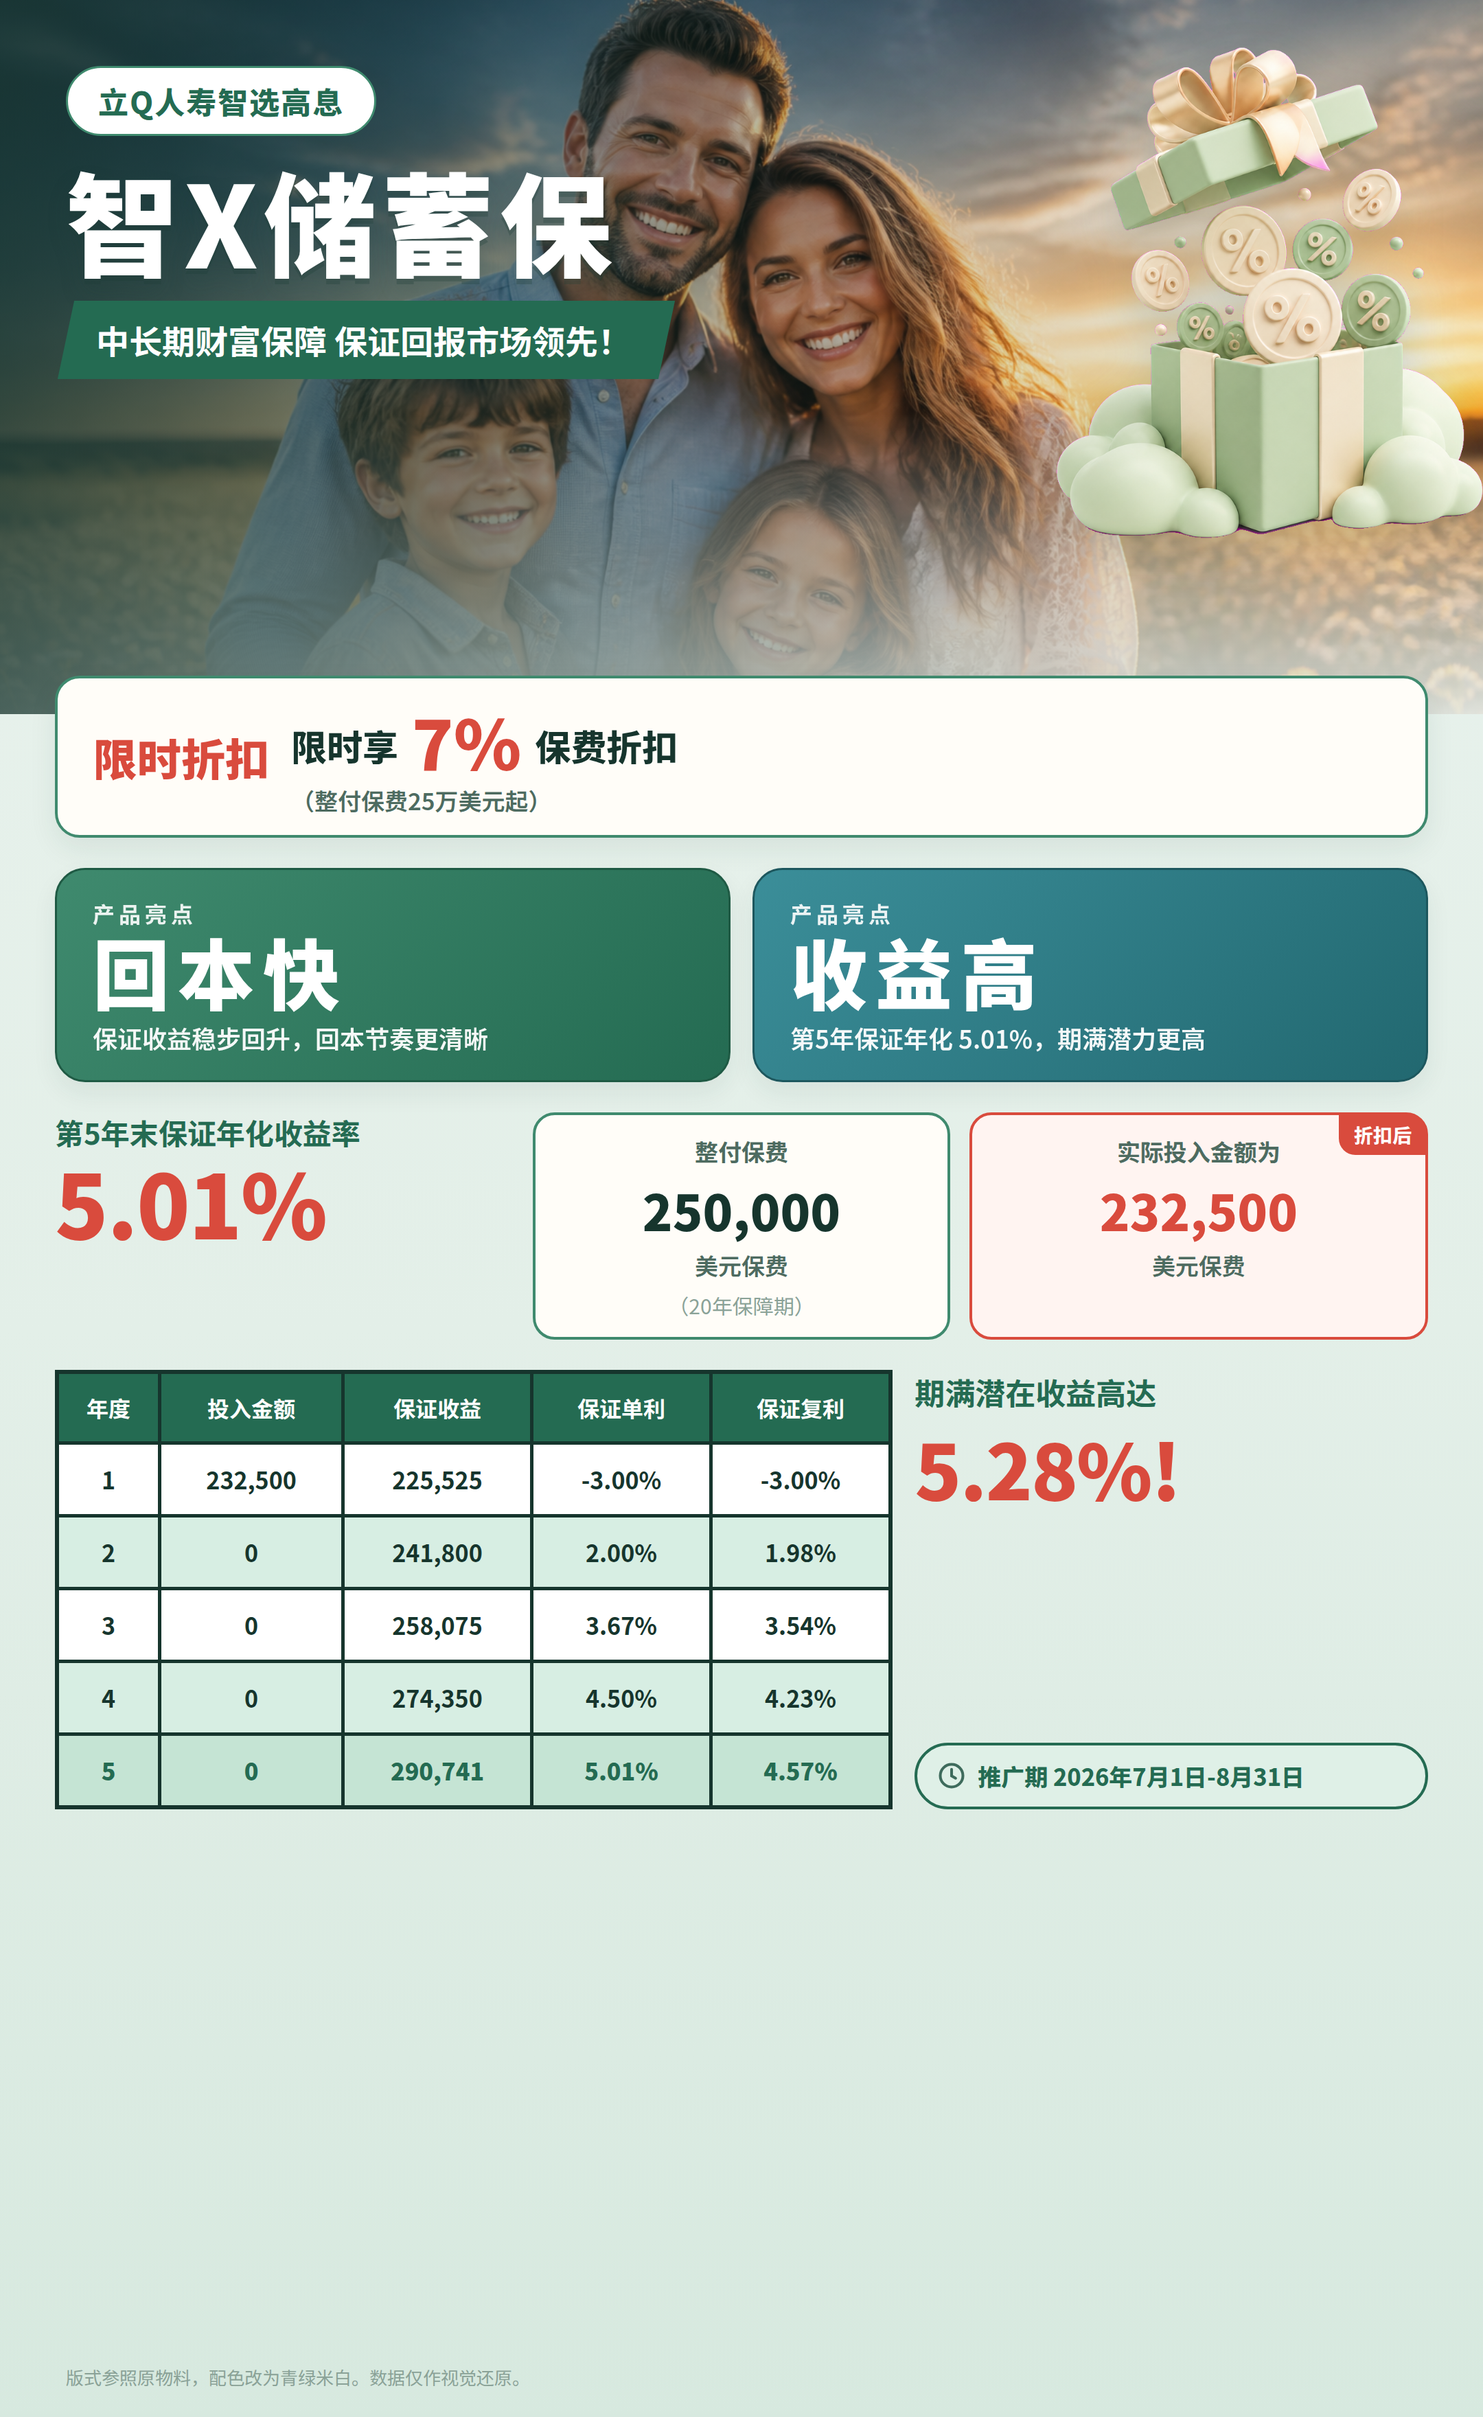
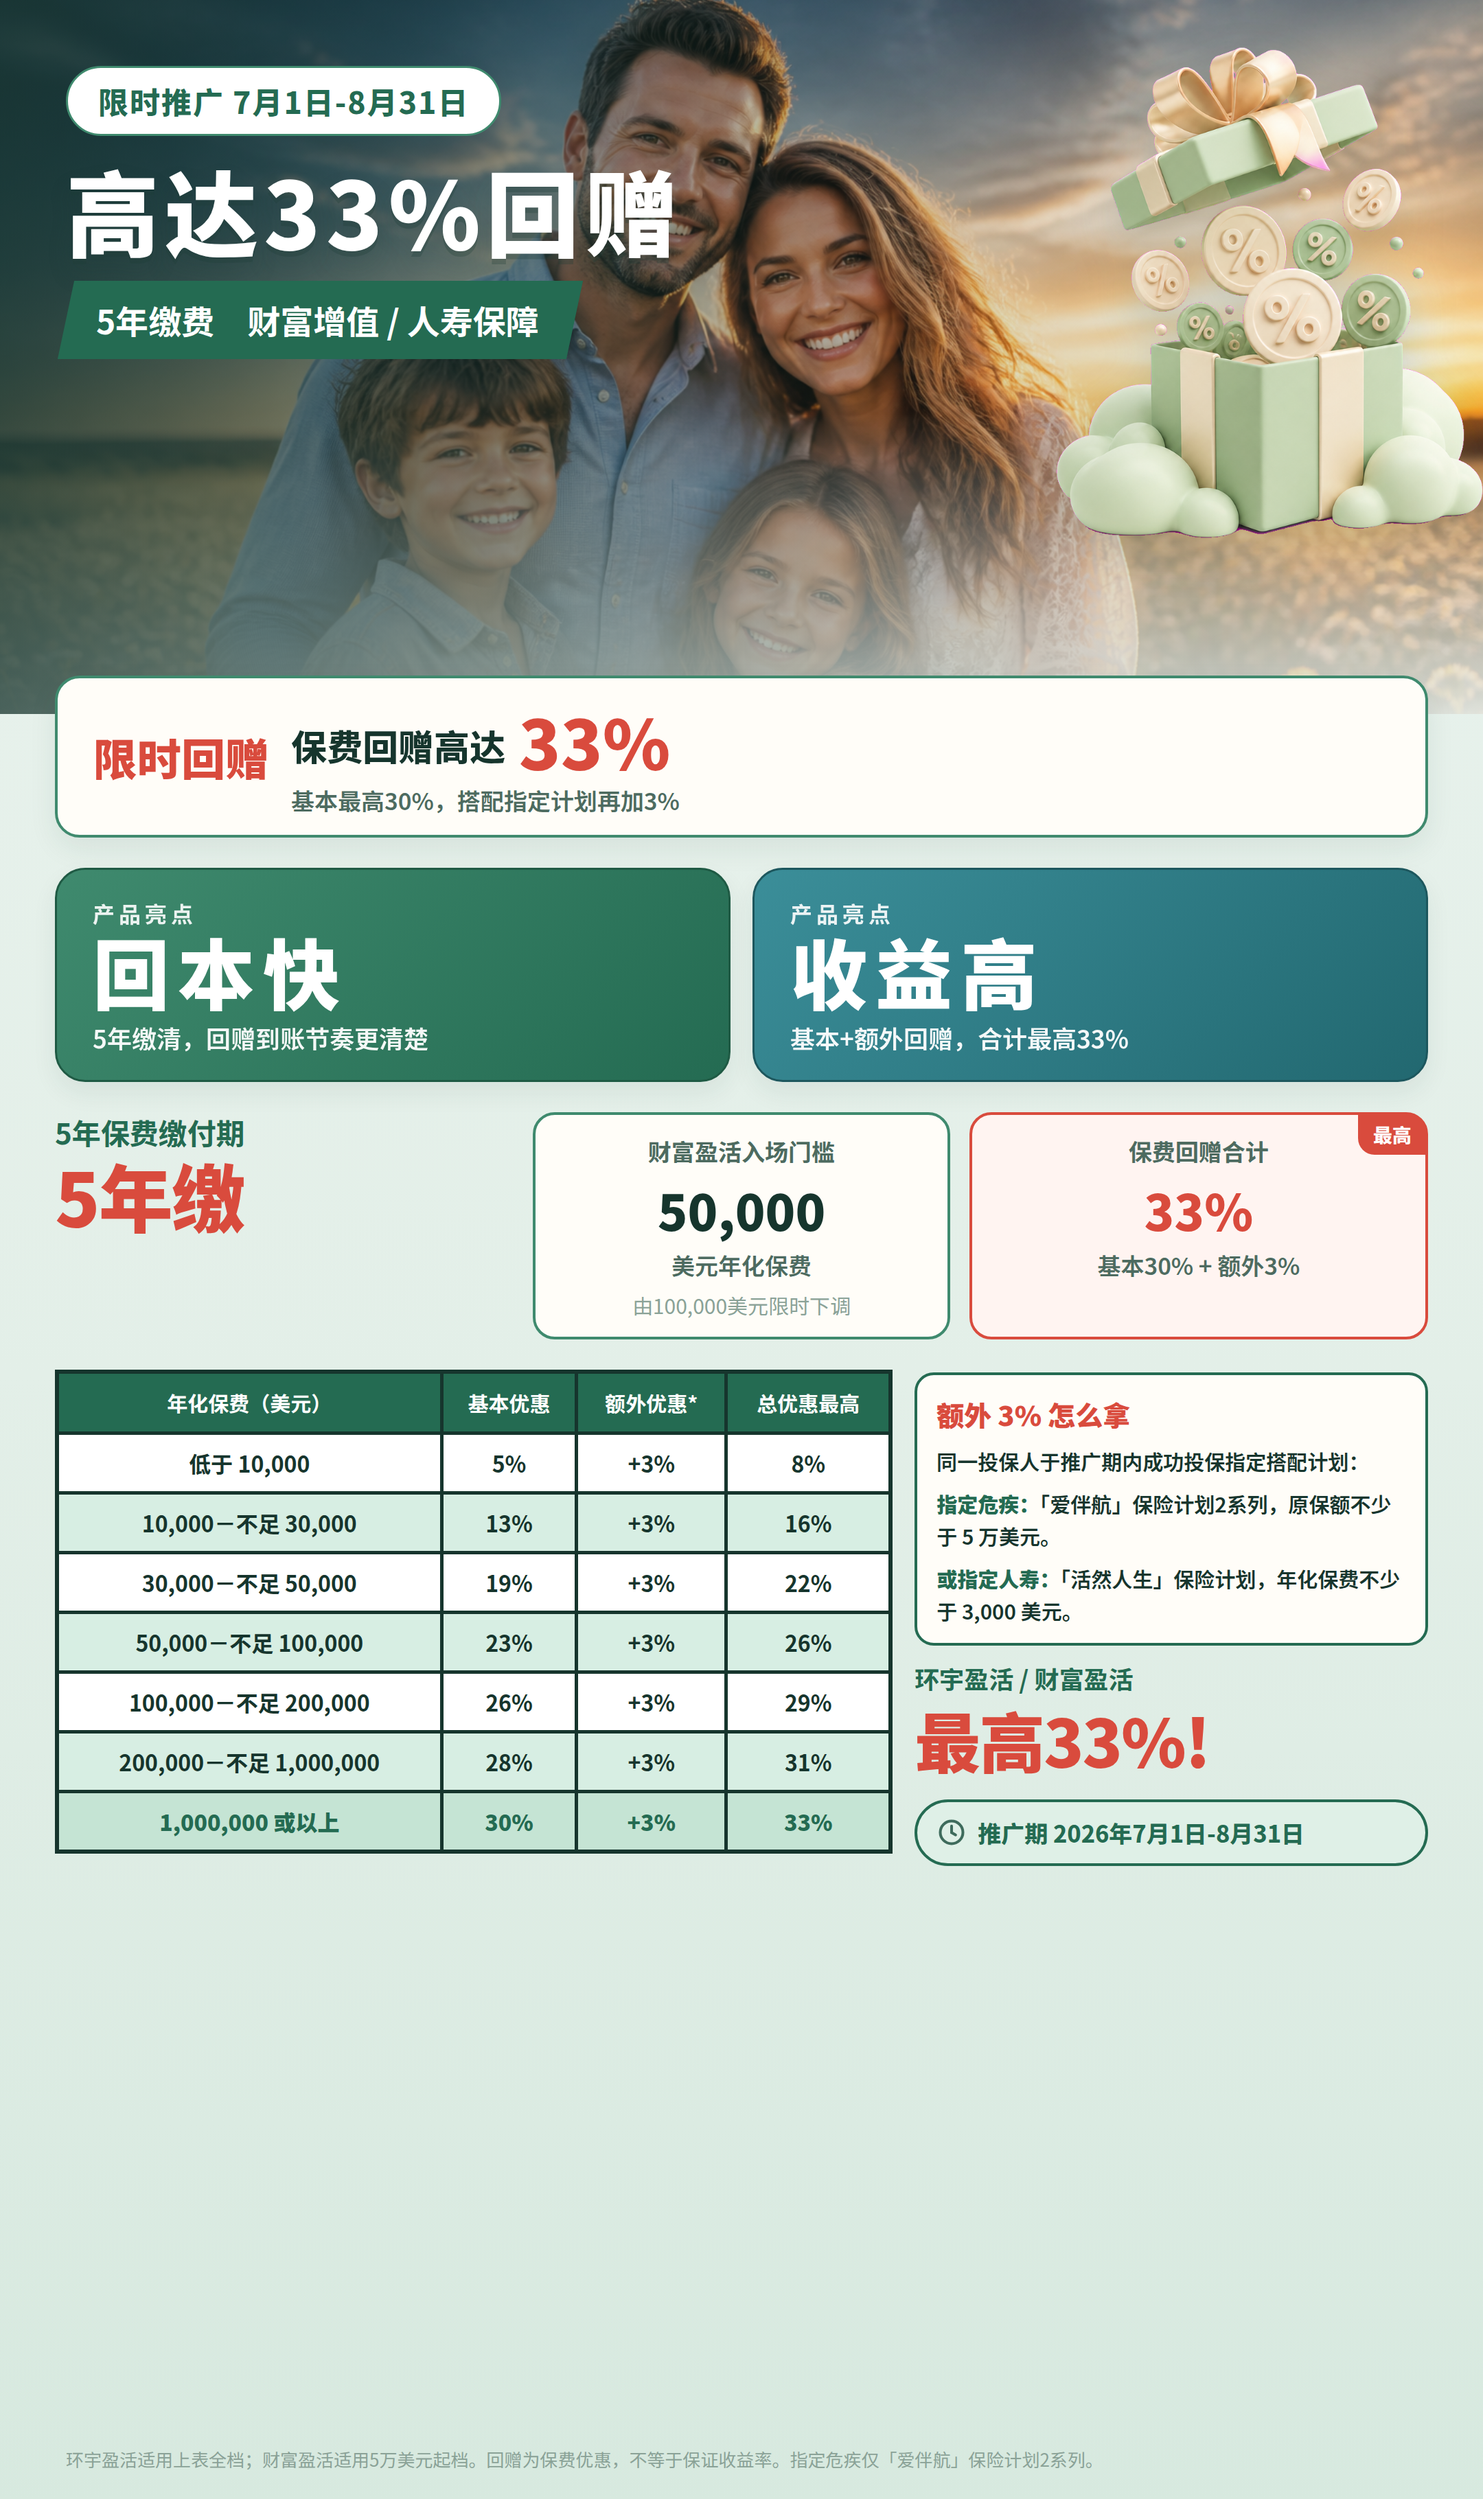
Update poster copy to 33% rebate campaign
Replace 智X储蓄保 body copy with the savings rebate offer, 5-year pay, tier table, and extra 3% terms that keep only 爱伴航保险计划2系列 as the designated CI plan.

Changed region(s): [[0.031, 0.0, 1.0, 0.75], [0.062, 0.9688, 0.3722, 1.0], [0.0, 0.2812, 0.031, 0.3125]]

diff --git a/design/poster/index.html b/design/poster/index.html
@@ -2,7 +2,7 @@
 <html lang="zh-CN">
 <head>
   <meta charset="UTF-8" />
-  <title>智X储蓄保</title>
+      <title>保费回赠储蓄计划</title>
   <style>
     @font-face {
       font-family: "Noto Sans SC";
@@ -33,7 +33,7 @@
 
     .poster {
       width: 1080px;
-      height: 1760px;
+      height: 1820px;
       overflow: hidden;
       position: relative;
       font-family: "Noto Sans SC", "WenQuanYi Micro Hei", sans-serif;
@@ -76,7 +76,7 @@
 
     h1 {
       margin-top: 18px;
-      font-size: 82px;
+      font-size: 68px;
       font-weight: 900;
       letter-spacing: 4px;
       line-height: 1.05;
@@ -219,7 +219,7 @@
 
     .yield .num {
       margin-top: 4px;
-      font-size: 64px;
+      font-size: 54px;
       font-weight: 900;
       color: var(--coral);
       letter-spacing: -1px;
@@ -276,16 +276,16 @@
     th {
       background: var(--sage-d);
       color: #fff;
-      font-size: 16px;
+      font-size: 15px;
       font-weight: 700;
-      padding: 13px 4px;
+      padding: 10px 4px;
     }
 
     td {
       text-align: center;
-      font-size: 17px;
+      font-size: 16px;
       font-weight: 700;
-      padding: 13px 4px;
+      padding: 9px 4px;
       color: var(--ink);
       background: #fff;
     }
@@ -300,14 +300,35 @@
     .side {
       display: flex;
       flex-direction: column;
-      justify-content: space-between;
-      min-height: 100%;
+      gap: 12px;
       padding-top: 2px;
-      gap: 16px;
     }
 
+    .extra {
+      background: var(--cream);
+      border: 2px solid var(--sage-d);
+      border-radius: 14px;
+      padding: 14px 14px 12px;
+    }
+
+    .extra .tit {
+      font-size: 20px;
+      font-weight: 900;
+      color: var(--coral);
+    }
+
+    .extra p {
+      margin-top: 8px;
+      font-size: 15px;
+      font-weight: 600;
+      color: var(--ink);
+      line-height: 1.55;
+    }
+
+    .extra b { color: var(--sage-d); }
+
     .mature {
-      font-size: 22px;
+      font-size: 18px;
       font-weight: 700;
       color: var(--sage-d);
       line-height: 1.3;
@@ -315,9 +336,9 @@
 
     .mature b {
       display: block;
-      margin-top: 4px;
+      margin-top: 2px;
       color: var(--coral);
-      font-size: 56px;
+      font-size: 48px;
       letter-spacing: -1px;
     }
 
@@ -351,17 +372,17 @@
       <div class="header-photo"></div>
       <img class="gift" src="./assets/gift-box.png" alt="" />
       <div class="header-inner">
-        <div class="badge">立Q人寿智选高息</div>
-        <h1>智X储蓄保</h1>
-        <div class="ribbon"><span>中长期财富保障 保证回报市场领先！</span></div>
+        <div class="badge">限时推广 7月1日-8月31日</div>
+        <h1>高达33%回赠</h1>
+        <div class="ribbon"><span>5年缴费　财富增值 / 人寿保障</span></div>
       </div>
     </header>
 
     <section class="discount">
-      <div class="ttl">限时折扣</div>
+      <div class="ttl">限时回赠</div>
       <div class="copy">
-        限时享 <b>7%</b> 保费折扣
-        <small>（整付保费25万美元起）</small>
+        保费回赠高达 <b>33%</b>
+        <small>基本最高30%，搭配指定计划再加3%</small>
       </div>
     </section>
 
@@ -369,31 +390,31 @@
       <div class="hi hi-a">
         <div class="eye">产品亮点</div>
         <div class="big">回本快</div>
-        <div class="sub">保证收益稳步回升，回本节奏更清晰</div>
+        <div class="sub">5年缴清，回赠到账节奏更清楚</div>
       </div>
       <div class="hi hi-b">
         <div class="eye">产品亮点</div>
         <div class="big">收益高</div>
-        <div class="sub">第5年保证年化 5.01%，期满潜力更高</div>
+        <div class="sub">基本+额外回赠，合计最高33%</div>
       </div>
     </section>
 
     <section class="stats">
       <div class="yield">
-        <div class="lab">第5年末保证年化收益率</div>
-        <div class="num">5.01%</div>
+        <div class="lab">5年保费缴付期</div>
+        <div class="num">5年缴</div>
       </div>
       <div class="card">
-        <div class="k">整付保费</div>
-        <div class="v">250,000</div>
-        <div class="u">美元保费</div>
-        <div class="h">（20年保障期）</div>
+        <div class="k">财富盈活入场门槛</div>
+        <div class="v">50,000</div>
+        <div class="u">美元年化保费</div>
+        <div class="h">由100,000美元限时下调</div>
       </div>
       <div class="card hot">
-        <div class="flag">折扣后</div>
-        <div class="k">实际投入金额为</div>
-        <div class="v">232,500</div>
-        <div class="u">美元保费</div>
+        <div class="flag">最高</div>
+        <div class="k">保费回赠合计</div>
+        <div class="v">33%</div>
+        <div class="u">基本30% + 额外3%</div>
       </div>
     </section>
 
@@ -401,24 +422,31 @@
       <table>
         <thead>
           <tr>
-            <th>年度</th>
-            <th>投入金额</th>
-            <th>保证收益</th>
-            <th>保证单利</th>
-            <th>保证复利</th>
+            <th>年化保费（美元）</th>
+            <th>基本优惠</th>
+            <th>额外优惠*</th>
+            <th>总优惠最高</th>
           </tr>
         </thead>
         <tbody>
-          <tr><td>1</td><td>232,500</td><td>225,525</td><td>-3.00%</td><td>-3.00%</td></tr>
-          <tr><td>2</td><td>0</td><td>241,800</td><td>2.00%</td><td>1.98%</td></tr>
-          <tr><td>3</td><td>0</td><td>258,075</td><td>3.67%</td><td>3.54%</td></tr>
-          <tr><td>4</td><td>0</td><td>274,350</td><td>4.50%</td><td>4.23%</td></tr>
-          <tr><td>5</td><td>0</td><td>290,741</td><td>5.01%</td><td>4.57%</td></tr>
+          <tr><td>低于 10,000</td><td>5%</td><td>+3%</td><td>8%</td></tr>
+          <tr><td>10,000－不足 30,000</td><td>13%</td><td>+3%</td><td>16%</td></tr>
+          <tr><td>30,000－不足 50,000</td><td>19%</td><td>+3%</td><td>22%</td></tr>
+          <tr><td>50,000－不足 100,000</td><td>23%</td><td>+3%</td><td>26%</td></tr>
+          <tr><td>100,000－不足 200,000</td><td>26%</td><td>+3%</td><td>29%</td></tr>
+          <tr><td>200,000－不足 1,000,000</td><td>28%</td><td>+3%</td><td>31%</td></tr>
+          <tr><td>1,000,000 或以上</td><td>30%</td><td>+3%</td><td>33%</td></tr>
         </tbody>
       </table>
 
       <div class="side">
-        <div class="mature">期满潜在收益高达 <b>5.28%!</b></div>
+        <div class="extra">
+          <div class="tit">额外 3% 怎么拿</div>
+          <p>同一投保人于推广期内成功投保指定搭配计划：</p>
+          <p><b>指定危疾：</b>「爱伴航」保险计划2系列，原保额不少于 5 万美元。</p>
+          <p><b>或指定人寿：</b>「活然人生」保险计划，年化保费不少于 3,000 美元。</p>
+        </div>
+        <div class="mature">环宇盈活 / 财富盈活 <b>最高33%!</b></div>
         <div class="period">
           <svg class="clock" viewBox="0 0 24 24" fill="none">
             <circle cx="12" cy="12" r="9" stroke="#3e6b5c" stroke-width="2.2"/>
@@ -429,7 +457,7 @@
       </div>
     </section>
 
-    <p class="note">版式参照原物料，配色改为青绿米白。数据仅作视觉还原。</p>
+    <p class="note">环宇盈活适用上表全档；财富盈活适用5万美元起档。回赠为保费优惠，不等于保证收益率。指定危疾仅「爱伴航」保险计划2系列。</p>
   </article>
 </body>
 </html>
